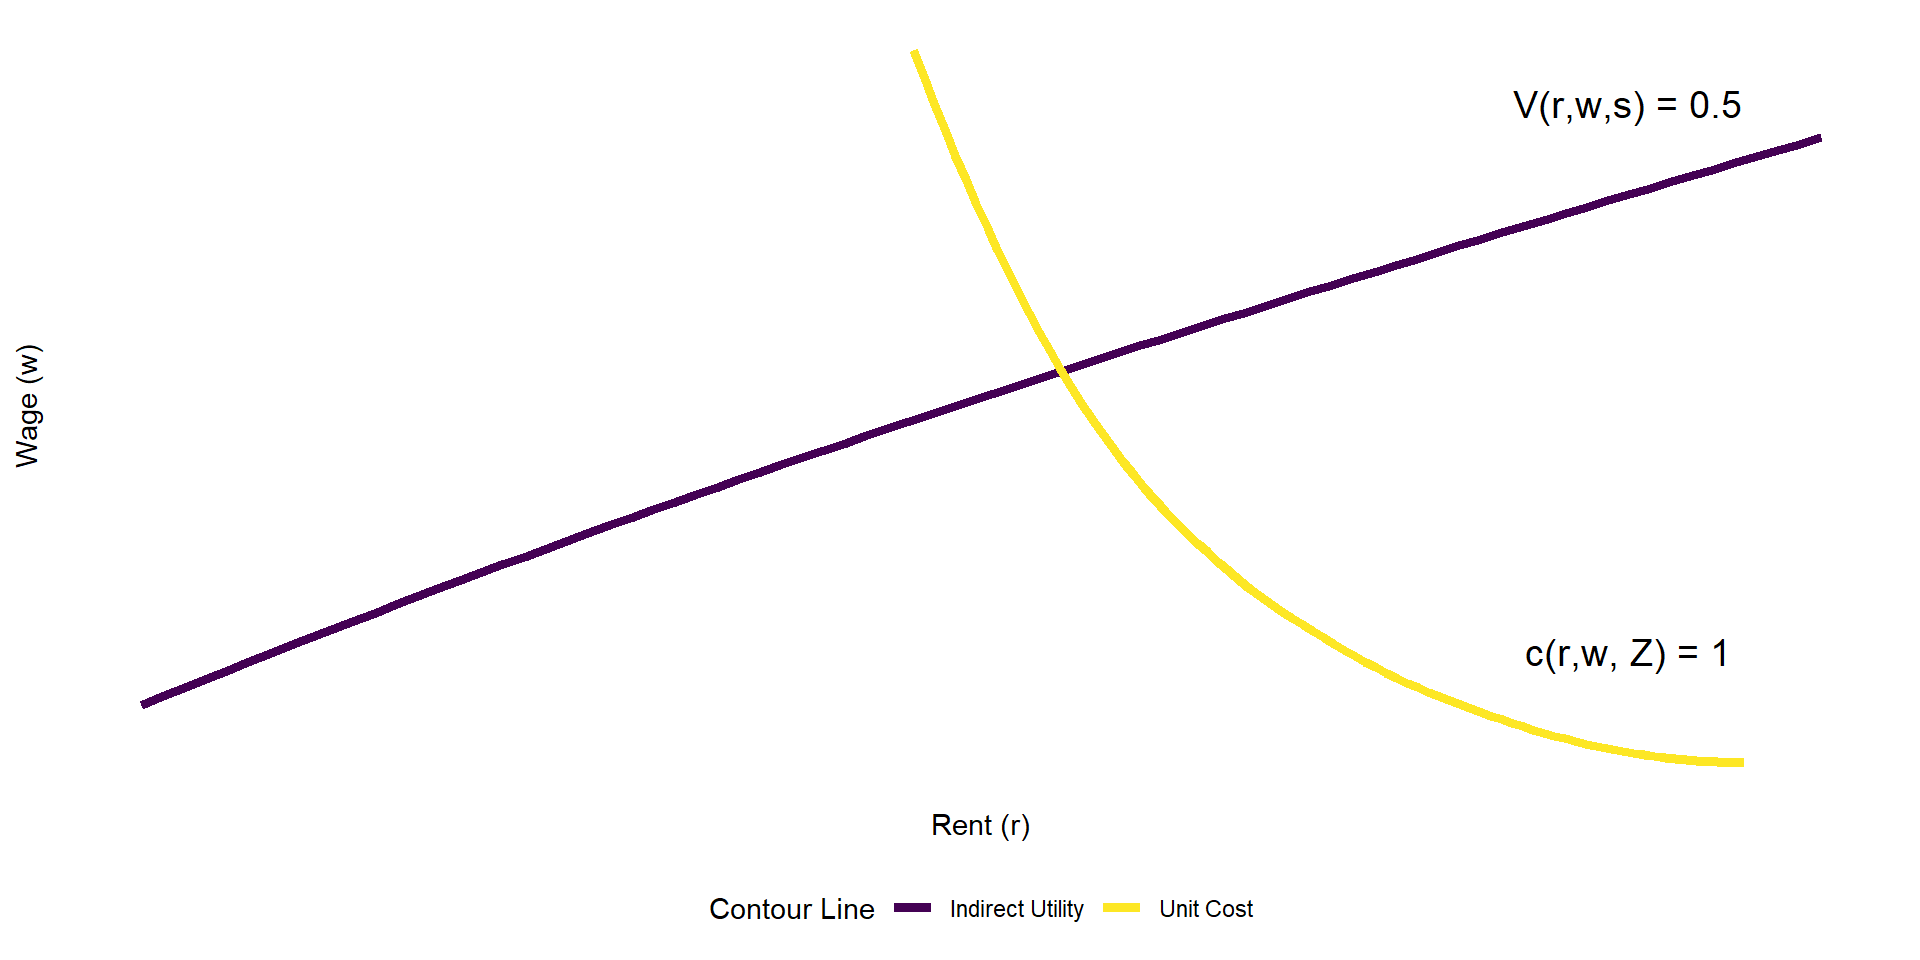
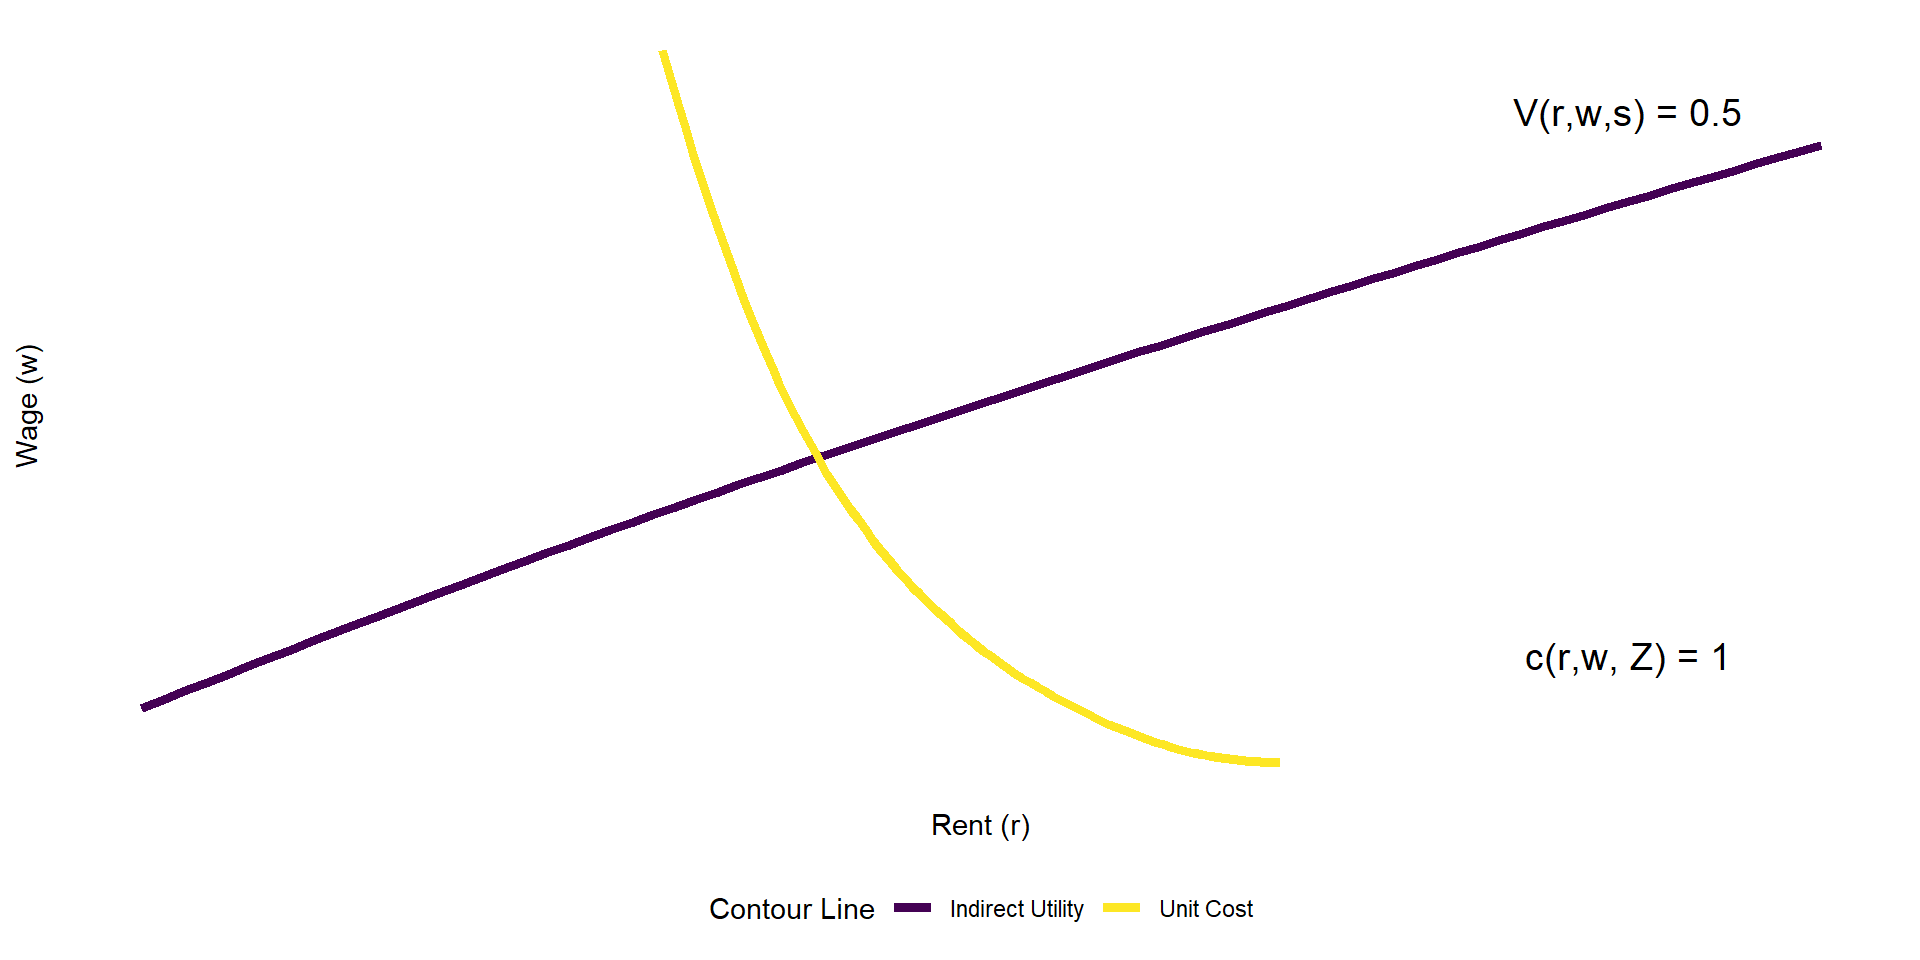
more work on qs

diff --git a/ps3.html b/ps3.html
@@ -10,7 +10,7 @@
 <link href="ps3_files/libs/quarto-html/quarto-syntax-highlighting.css" rel="stylesheet" id="quarto-text-highlighting-styles"><meta charset="utf-8">
   <meta name="generator" content="quarto-1.4.549">
 
-  <title>ps3</title>
+  <title>Applied Problem Set III</title>
   <meta name="apple-mobile-web-app-capable" content="yes">
   <meta name="apple-mobile-web-app-status-bar-style" content="black-translucent">
   <meta name="viewport" content="width=device-width, initial-scale=1.0, maximum-scale=1.0, user-scalable=no, minimal-ui">
@@ -325,7 +325,7 @@
     <div class="slides">
 
 <section id="title-slide" class="quarto-title-block center">
-  <h1 class="title">ps3</h1>
+  <h1 class="title">Applied Problem Set III</h1>
 
 <div class="quarto-title-authors">
 </div>
@@ -334,10 +334,10 @@
 <section>
 <section id="question-1" class="title-slide slide level1 center">
 <h1>Question 1</h1>
-
+<p>What is the expression for indirect utility <span class="math inline">\(V(w, r, s)\)</span>? What is the expression for total costs <span class="math inline">\(C(w, r, Z)\)</span> and unit costs <span class="math inline">\(c(w, r, Z)\)</span>?</p>
 </section>
 <section id="utility-maximisation" class="slide level2">
-<h2>Utility Maximisation</h2>
+<h2>Utility maximisation</h2>
 <p>Workers choose how much to consume of a private good <span class="math inline">\(x\)</span> and land <span class="math inline">\(l^c\)</span> to maximise utility subject to a budget constraint.</p>
 <p><span class="math display">\[
 \begin{aligned}
@@ -351,7 +351,7 @@
 \]</span></p>
 </section>
 <section id="utility-maximisation-1" class="slide level2">
-<h2>Utility Maximisation</h2>
+<h2>Utility maximisation</h2>
 <p>We assume utility has form <span class="math inline">\(s^{\theta_W} x^\gamma (l^c)^{1-\gamma}\)</span>, where <span class="math inline">\(\theta_W\)</span> and <span class="math inline">\(\gamma\)</span> are exogenous parameters. The dual problem is:</p>
 <p><span class="math display">\[
 \begin{aligned}
@@ -363,7 +363,7 @@
 \]</span></p>
 </section>
 <section id="utility-maximisation-2" class="slide level2">
-<h2>Utility Maximisation</h2>
+<h2>Utility maximisation</h2>
 <p>We obtain the Marshallian demands by dividing the FOCs and replacing them in the budget constraint.</p>
 <p><span class="math display">\[
 \begin{aligned}
@@ -377,17 +377,18 @@ V(w, r, s) = \gamma^\gamma (1-\gamma)^{1-\gamma} s^{\theta_W} (w + I) r^{\gamma-
 \]</span></p>
 </section>
 <section id="cost-minimisation" class="slide level2">
-<h2>Cost Minimisation</h2>
+<h2>Cost minimisation</h2>
 <p>Firms have a production technology <span class="math inline">\(Z N^\alpha (L^p)^{1-\alpha}\)</span>, where <span class="math inline">\(Z\)</span> is a production shifter, <span class="math inline">\(N\)</span> is the number of workers, and <span class="math inline">\(L^p\)</span> is the amount of land. They solve the cost minimisation problem</p>
 <p><span class="math display">\[
 min_{N, L^p} \; wN + rL^p \quad \text{s.t.} \quad Z N^\alpha (L^p)^{1-\alpha} = X
-\]</span> and, as before,</p>
+\]</span></p>
+<p>and, as before,</p>
 <p><span class="math display">\[
 \mathcal{L} = wN + rL^p - \lambda(Z N^\alpha (L^p)^{1-\alpha} - X).
 \]</span></p>
 </section>
 <section id="cost-minimisation-1" class="slide level2">
-<h2>Cost Minimisation</h2>
+<h2>Cost minimisation</h2>
 <p><span class="math display">\[
 \begin{aligned}
 &amp;\text{FOCs:}\\[5pt]
@@ -397,7 +398,7 @@ min_{N, L^p} \; wN + rL^p \quad \text{s.t.} \quad Z N^\alpha (L^p)^{1-\alpha} = 
 \]</span></p>
 </section>
 <section id="cost-minimisation-2" class="slide level2">
-<h2>Cost Minimisation</h2>
+<h2>Cost minimisation</h2>
 <p>We obtain the factor demands by dividing the FOCs and replacing them in the constraint.</p>
 <p><span class="math display">\[
 \begin{aligned}
@@ -407,7 +408,7 @@ L^p(w, r) &amp;= \frac{X}{Z} \left[ \frac{w}{r} \left( \frac{1-\alpha}{\alpha} \
 \]</span></p>
 </section>
 <section id="cost-minimisation-3" class="slide level2">
-<h2>Cost Minimisation</h2>
+<h2>Cost minimisation</h2>
 <p>We plug the factor demands into the objective function to obtain the cost function</p>
 <p><span class="math display">\[
 C(X, w, r, Z) = \frac{X}{Z} \left(\frac{w}{\alpha}\right)^\alpha \left(\frac{r}{1-\alpha}\right)^{1-\alpha},
@@ -420,28 +421,71 @@ c(w, r, Z) = \frac{1}{Z} \left(\frac{w}{\alpha}\right)^\alpha \left(\frac{r}{1-\
 <section>
 <section id="question-2" class="title-slide slide level1 center">
 <h1>Question 2</h1>
-
+<p>Please graph the expressions for indirect utility and unit costs with <span class="math inline">\(w\)</span> on the y-axis and <span class="math inline">\(r\)</span> on the x-axis. Please label equilibrium wages and rents and explain the intuition for the slope of the two curves.</p>
+</section>
+<section id="indifference-conditions" class="slide level2">
+<h2>Indifference conditions</h2>
+<p>Given a perfectly competitive market for the unit price good, firms must have zero profits in equilibrium.</p>
+<p><span class="math display">\[
+c(w, r, Z) = 1
+\]</span></p>
+<p>Similarly, since workers are perfectly mobile, the indirect utility will be the same across locations.</p>
+<p><span class="math display">\[
+V(w, r, s) = V^0
+\]</span></p>
 </section>
 <section id="equilibrium" class="slide level2">
 <h2>Equilibrium</h2>
-<p>Given a perfectly competitive market for the unit price good, firms must have zero profits in equilibrium.</p>
-<p><span class="math display">\[
-\begin{aligned}
-c(w, r, Z) &amp;= 1 \\
-V(w, r, s) &amp;= V^0
-\end{aligned}
-\]</span></p>
+
+<img data-src="ps3_files/figure-revealjs/unnamed-chunk-3-1.png" width="960" class="r-stretch quarto-figure-center"><p class="caption">Note: Contours for α = γ = 0.2, θW = 0.1, s = 0.5, and Z = 0.8</p></section></section>
+<section>
+<section id="question-3" class="title-slide slide level1 center">
+<h1>Question 3</h1>
+<p>If productivity <span class="math inline">\(Z\)</span> increases to <span class="math inline">\(Z'\)</span>, what would happen to the unit cost curve and to wages and rental costs in equilibrium?</p>
 </section>
-<section id="contours" class="slide level2">
-<h2>Contours</h2>
+<section id="productivity-shift" class="slide level2">
+<h2>Productivity shift</h2>
 
-<img data-src="ps3_files/figure-revealjs/unnamed-chunk-3-1.png" width="960" class="r-stretch quarto-figure-center"><p class="caption">Note: Contours for α = γ = 0.2, θW = 0.1, s = 0.5, and Z = 1</p></section>
-<section id="question-6" class="slide level2">
-<h2>Question 6</h2>
+<img data-src="ps3_files/figure-revealjs/unnamed-chunk-5-1.png" width="960" class="r-stretch"></section></section>
+<section>
+<section id="question-4" class="title-slide slide level1 center">
+<h1>Question 4</h1>
+<p>If a strictly positive profit tax <span class="math inline">\(\tau\)</span> were introduced so that <span class="math inline">\(Z' = Z(1−\tau)\)</span>, what would happen to the unit cost curve and to wages and rental costs in equilibrium?</p>
+</section>
+<section id="equilibrium-1" class="slide level2">
+<h2>Equilibrium</h2>
+<p>TODO: but same thing as before but shifting towards origin, right?</p>
+<p>Might be cool to write a function to calculate the equlibrium point and plot that as function of tau.</p>
+</section></section>
+<section>
+<section id="question-5" class="title-slide slide level1 center">
+<h1>Question 5</h1>
+<p>Analytically and intuitively, what governs how much wages respond to the profit tax?</p>
+</section>
+<section id="derivation" class="slide level2">
+<h2>Derivation</h2>
+<p>TODO: total derivative of the cost function w.r.t. Z?</p>
+</section></section>
+<section>
+<section id="question-6" class="title-slide slide level1 center">
+<h1>Question 6</h1>
+<p>Open the dataset PS3.dta and use binscatter to show the relationship between local area wages and population shares. Specifically, plot mean wages for population share bins using the following command “binscatter wages popshare” where popshare is the share of the total US population in that local area.</p>
+</section>
+<section id="binscatter" class="slide level2">
+<h2>Binscatter</h2>
 
-<img data-src="ps3_files/figure-revealjs/unnamed-chunk-5-1.png" width="960" class="r-stretch"></section>
-<section id="question-7" class="slide level2">
-<h2>Question 7</h2>
+<img data-src="ps3_files/figure-revealjs/unnamed-chunk-7-1.png" width="960" class="r-stretch quarto-figure-center"><p class="caption">TODO add the catanneo source, explaining binning</p></section></section>
+<section>
+<section id="question-7" class="title-slide slide level1 center">
+<h1>Question 7</h1>
+<p>Run the following regression and save the residual:</p>
+<p><span class="math display">\[
+\log{w_c} = \beta_0 + \beta_1 \log{r_c} + A_c
+\]</span></p>
+<p>where log <span class="math inline">\(w_c\)</span> is log wages and log <span class="math inline">\(r_c\)</span> is local rents. Try to make the wage and rent terms economically comparable.</p>
+</section>
+<section id="regression-coefficients" class="slide level2">
+<h2>Regression coefficients</h2>
 <div class="cell">
 <div class="cell-output-display">
 <table>
@@ -457,28 +501,115 @@ V(w, r, s) &amp;= V^0
 <tbody>
 <tr class="odd">
 <td style="text-align: left;">(Intercept)</td>
-<td style="text-align: right;">3.4627304</td>
-<td style="text-align: right;">0.0579585</td>
-<td style="text-align: right;">59.74504</td>
+<td style="text-align: right;">4.8490248</td>
+<td style="text-align: right;">0.0707603</td>
+<td style="text-align: right;">68.52748</td>
 <td style="text-align: right;">0</td>
 </tr>
 <tr class="even">
 <td style="text-align: left;">log(rent)</td>
 <td style="text-align: right;">0.5336117</td>
-<td style="text-align: right;">0.0084554</td>
-<td style="text-align: right;">63.10903</td>
+<td style="text-align: right;">0.0105167</td>
+<td style="text-align: right;">50.73951</td>
 <td style="text-align: right;">0</td>
 </tr>
 </tbody>
 </table>
 </div>
 </div>
+</section></section>
+<section>
+<section id="question-8" class="title-slide slide level1 center">
+<h1>Question 8</h1>
+<p>List the top 10 local areas by <span class="math inline">\(\hat{A_c}\)</span>, which equals <span class="math inline">\((\log{w_c} - \hat{\beta_0} - \hat{\beta_1} \log{r_c})\)</span>.</p>
+</section>
+<section id="top-pumas-by-residual" class="slide level2 scrollable">
+<h2>Top PUMAs by residual</h2>
+<div class="cell">
+<div class="cell-output-display">
+<table>
+<colgroup>
+<col style="width: 89%">
+<col style="width: 10%">
+</colgroup>
+<thead>
+<tr class="header">
+<th style="text-align: left;">pumaname</th>
+<th style="text-align: right;">.resid</th>
+</tr>
+</thead>
+<tbody>
+<tr class="odd">
+<td style="text-align: left;">NYC-Manhattan Community District 1 &amp; 2–Battery Park City, Greenwich Village &amp; Soho</td>
+<td style="text-align: right;">0.7785290</td>
+</tr>
+<tr class="even">
+<td style="text-align: left;">NYC-Manhattan Community District 7–Upper West Side &amp; West Side</td>
+<td style="text-align: right;">0.6570759</td>
+</tr>
+<tr class="odd">
+<td style="text-align: left;">NYC-Manhattan Community District 4 &amp; 5–Chelsea, Clinton &amp; Midtown Business District</td>
+<td style="text-align: right;">0.6273782</td>
+</tr>
+<tr class="even">
+<td style="text-align: left;">NYC-Manhattan Community District 8–Upper East Side</td>
+<td style="text-align: right;">0.5886032</td>
+</tr>
+<tr class="odd">
+<td style="text-align: left;">Santa Clara County (Northwest)–Mountain View, Palo Alto &amp; Los Altos Cities</td>
+<td style="text-align: right;">0.5865702</td>
+</tr>
+<tr class="even">
+<td style="text-align: left;">Santa Clara County (Southwest)–Cupertino, Saratoga Cities &amp; Los Gatos Town</td>
+<td style="text-align: right;">0.5680225</td>
+</tr>
+<tr class="odd">
+<td style="text-align: left;">Washtenaw County (West, Northeast &amp; Southeast)</td>
+<td style="text-align: right;">0.5524738</td>
+</tr>
+<tr class="even">
+<td style="text-align: left;">Northumberland &amp; Montour Counties</td>
+<td style="text-align: right;">0.5320243</td>
+</tr>
+<tr class="odd">
+<td style="text-align: left;">NYC-Manhattan Community District 6–Murray Hill, Gramercy &amp; Stuyvesant Town</td>
+<td style="text-align: right;">0.4879137</td>
+</tr>
+<tr class="even">
+<td style="text-align: left;">San Francisco County (Central)–Inner Mission &amp; Castro</td>
+<td style="text-align: right;">0.4857113</td>
+</tr>
+</tbody>
+</table>
+</div>
+</div>
+</section></section>
+<section>
+<section id="question-9" class="title-slide slide level1 center">
+<h1>Question 9</h1>
+<p>Create a scatter plot that shows where local areas lie on the graph of <span class="math inline">\(\hat{A_c}\)</span> on the y-axis and wages <span class="math inline">\(w_c\)</span> on the x-axis. Please superimpose the best fit line. Why do you think some cities fall above and below the best fit line? Please repeat this analysis but with population shares on the x-axis.</p>
+</section>
+<section id="todo" class="slide level2">
+<h2>TODO</h2>
+<p>I am really not sure what means by line of best fit here? Linear of Ahat on w? Or something related to the regression?</p>
+</section>
+<section id="wages-scatter-plot" class="slide level2">
+<h2>Wages scatter plot</h2>
+
+<img data-src="ps3_files/figure-revealjs/unnamed-chunk-11-1.png" width="960" class="r-stretch"></section>
+<section id="population-shares-scatter-plot" class="slide level2">
+<h2>Population shares scatter plot</h2>
+
+<img data-src="ps3_files/figure-revealjs/unnamed-chunk-12-1.png" width="960" class="r-stretch"></section></section>
+<section id="question-10" class="title-slide slide level1 center">
+<h1>Question 10</h1>
+<p>Regress <span class="math inline">\(\hat{A_c}\)</span> on the three tax rate variables for sales, income, and corporate taxes. Run bivariate regressions and then include all three tax rates in the same regression. Please describe and interpret the sign and magnitudes of the coefficients. How do these coefficients compare to the relationship between <span class="math inline">\(\hat{A_c}\)</span> and other amenity measures in the dataset?</p>
 <div class="quarto-auto-generated-content">
 <div class="footer footer-default">
 
 </div>
 </div>
-</section></section>
+</section>
     </div>
   </div>
 
